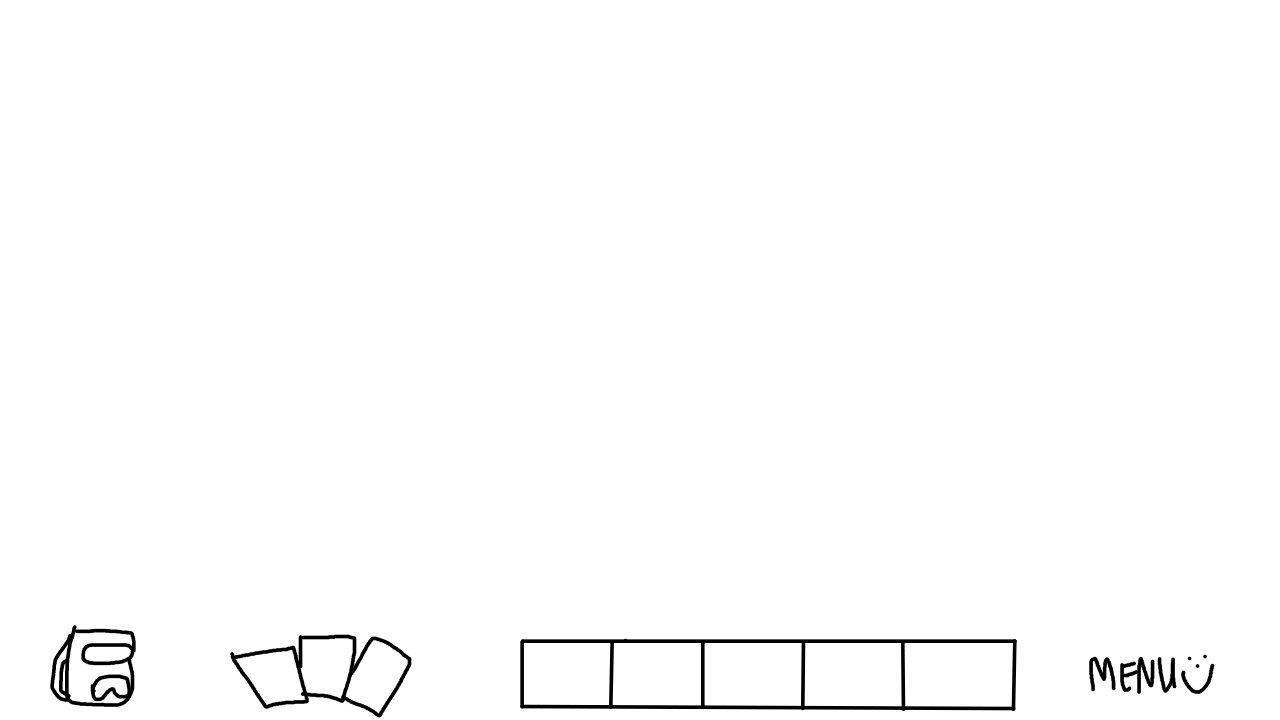
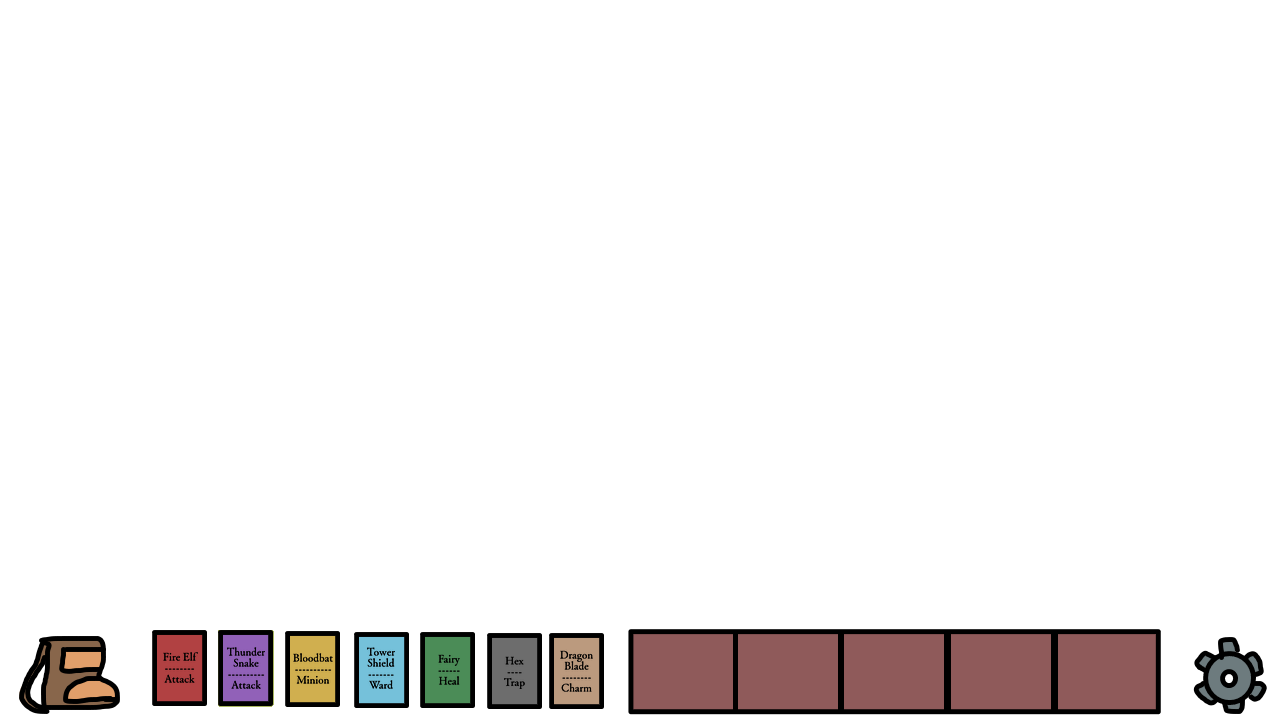
basic point and click mechanics :-)

Changed region(s): [[0.0, 0.8556, 1.0, 1.0]]

diff --git a/src/scenes/theaterStart.js b/src/scenes/theaterStart.js
@@ -3,113 +3,84 @@ class theaterStart extends Phaser.Scene {
         super("theaterStart");
     }
 
-    preload(){
+    preload() {
         // load assets
-        this.load.image('start', './assets/testBG.png')
-        this.load.plugin('rexclickoutsideplugin', 'https://raw.githubusercontent.com/rexrainbow/phaser3-rex-notes/master/dist/rexclickoutsideplugin.min.js', true);
+        this.load.image('start', './assets/testBG.png');
+        this.load.image('rope', './assets/items/rope.png');
+        this.load.image('amulet', './assets/items/amulet.png');
+        this.load.image('knife', './assets/items/knife.png');
+        this.load.image('maskSad', './assets/items/maskSad.png');
+        this.load.image('maskHappy', './assets/items/maskHappy.png');
     }
 
     create() {
-        this.cameras.main.fadeIn(1000, 0, 0, 0)
+        this.cameras.main.fadeIn(1000, 0, 0, 0);
         prevScene = this.scene.key;
     
         // title
-        this.title = this.add.tileSprite(10, 10, 1260, 600, 'start').setOrigin(0, 0);
-        //borders for now
-        this.add.rectangle(0, 0, 10, game.config.height, 0xFFFFFF).setOrigin(0, 0);
-        this.add.rectangle(0, game.config.height - 100, game.config.width, 100, 0xFFFFFF).setOrigin(0, 0);
-        this.add.rectangle(0, 0, game.config.width, 10, 0xFFFFFF).setOrigin(0, 0);
-        this.add.rectangle(game.config.width - 10, 0, 10, game.config.height, 0xFFFFFF).setOrigin(0, 0);    
+        this.title = this.add.tileSprite(10, 10, 1260, 570, 'start').setOrigin(0, 0);
 
-        //hotbar test
-        this.test = this.add.tileSprite(0, 0, 1280, 720, 'test').setOrigin(0, 0);
+        //UI
+        this.scene.run('Borders');
 
-        //text box, did not change origin so it stays in the middle
-        this.textBox = this.add.rectangle(640, game.config.height - 120, game.config.width - 20, 50, 0xFF0000);
+        //interactables
+        this.int1 = this.add.image(70, 400, 'hitbox');
+        this.int1.setInteractive({
+            cursor: handPointer
+         });
 
-        //text
-        this.interText = this.add.text(this.textBox.x, this.textBox.y, '', {fontFamily: 'Georgia, serif'});
-        this.interText.setFontSize(24);
-        this.interText.setOrigin(0.5,0.5);
+        this.int2 = this.add.image(700, 150, 'hitbox');
+        this.int2.setInteractive({
+            cursor: handPointer
+         });
 
-        //hotbar hitboxes
-        //(this.backpack, 100, 680);
-        this.backpack = this.add.image(100, 680, 'hitbox');
-        this.backpack.setDisplaySize(100, 100);
-        this.backpack.setInteractive({
+        //items
+        //note: i would rather have these be square instead of rectangular for the cursors
+        //note note: if ur able to collect up to 5 objects, in a perfect world they would enter the inv in order
+        //this means i would have some kind of array for each "slot" which are the x and y coordinates and check if an item is there already
+        //if so, move to second slot and so on
+        //for the purposes of this demo I will predetermine item placement like lighthouse
+        this.rope = this.add.image(680, 670, 'rope');
+        this.rope.setDisplaySize(100, 80);
+        this.rope.setInteractive({
            cursor: handPointer
         });
 
-        this.deck = this.add.image(300, 680, 'hitbox');
-        this.deck.setDisplaySize(100, 100);
-        this.deck.setInteractive({
-           cursor: handPointer
-        });
-
-        this.card = this.add.image(640, 680, 'hitbox');
-        this.card.setDisplaySize(100, 100);
-        this.card.setInteractive({
-           cursor: handPointer
-        });
-
-        this.menu = this.add.image(1150, 680, 'hitbox');
-        this.menu.setDisplaySize(100, 100);
-        this.menu.setInteractive({
-           cursor: handPointer
-        });
-
-        //clicking outside detection test (can I somehow just have this work for clicking outside the texture key hitbox?)
-        //maybe if i used a prefab for all interactable objects this it could work 
+        //clicking outside detection test
         //parameters: (gameObject, mode)
-        var clickOutside = this.plugins.get('rexclickoutsideplugin').add(this.card, { 
+        var clickOutside = this.plugins.get('rexclickoutsideplugin').add(this.rope, { 
             mode: 'pointerdown'
         });
 
         clickOutside.on('clickoutside', function() {
-            this.clicked = true;
-        });
-
-        //puts this scene to sleep (no updates), switches scenes to inventory
-        this.backpack.on('pointerdown', (pointer) => {
-            this.scene.switch('backpackInv');
-            console.log("hiii");
+            clickedOut = true;
         });
     }
 
-    update() {
-        //when clicking the hitboxes, display new text
-        //for items later; change cursor into item and misusing them changes cursor back
-        this.card.on('pointerup', (pointer) => {
-            this.interText.text = "The hotbar will go here for consumable items.";
-            this.textTimer = 1;
-            this.input.setDefaultCursor('url(./assets/ghostCursors/Move.cur), pointer');
-            this.clicked = false;
-        });
-        
-        this.menu.on('pointerup', (pointer) => {
-            this.interText.text = "The settings menu. In theory.";
-            this.textTimer = 1;
-        });
+    update() {  
+        this.rope.on('pointerup', (pointer) => {
+            interText.text = "A fairly long rope.";
+            //textTimer = 100;
+            this.input.setDefaultCursor('url(./assets/itemCursors/rope.png), pointer');
+            clickedOut = false;
+        }); 
 
-        this.deck.on('pointerup', (pointer) => {
-            this.interText.text = "My spell deck. As stretch I could animate them lol.";
-            this.textTimer = 1;
-        });
-
-        //text timer (maybe change time depending on length of string)
-        if(this.textTimer > 0 && this.textTimer < 200) {
-            this.textTimer += 1;
-        } 
-        else if(this.textTimer >= 200) {
-            this.interText.text = '';
-            this.textTimer = 0;
-        }
-
-        //clicking off hitbox return to default cursor
-        this.input.on('pointerdown', (pointer) => {
-            if ((this.input.mouse.manager.defaultCursor != handDefault) && (this.clicked = true)) {
+        //clicking correct object destroys object
+        this.int1.on('pointerdown', (pointer) => {
+            if ((this.input.mouse.manager.defaultCursor != handDefault)) {
                 this.input.setDefaultCursor(handDefault);
+                this.rope.destroy();
+                interText.text = "congrats you used the rope correctly yayyyy";
+                clickedOut = false;
             }
-        });   
+        });
+
+        //clicking wrong area returns to to default cursor
+        this.input.on('pointerdown', (pointer) => {
+            if ((this.input.mouse.manager.defaultCursor != handDefault) && (clickedOut = true)) {
+                this.input.setDefaultCursor(handDefault);
+                interText.text = "That doesn't work."; //note: this quickly appears when you click on a ui item too
+            }
+        });
     }
 }

diff --git a/src/UI/borders.js b/src/UI/borders.js
@@ -8,6 +8,7 @@ class Borders extends Phaser.Scene {
     }
 
     create () {
+        this.cameras.main.fadeIn(1000, 0, 0, 0)
         //borders
         //(x, y, height, width, fillcolor, alpha)
         this.add.rectangle(0, 0, 10, game.config.height, 0xFFFFFF).setOrigin(0, 0);
@@ -20,8 +21,65 @@ class Borders extends Phaser.Scene {
         //hotbar test
         this.test = this.add.tileSprite(0, 0, 1280, 720, 'test').setOrigin(0, 0);
 
-        //text box (inner monologue or observations... will dialogue appear differently? maybe not)
-        this.add.rectangle(10, game.config.height - 150, game.config.width - 20, 50, 0xFF0000).setOrigin(0, 0);
+        //text box, did not change origin so it stays in the middle
+        this.textBox = this.add.rectangle(640, game.config.height - 120, game.config.width - 20, 50, 0xFF0000);
+        
+        //text
+        interText = this.add.text(640, 600, '', {fontFamily: 'Georgia, serif'});
+        interText.setFontSize(24);
+        interText.setOrigin(0.5,0.5);
+
+        this.backpack = this.add.image(70, 670, 'hitbox');
+        this.backpack.setDisplaySize(100, 80);
+        this.backpack.setInteractive({
+           cursor: handPointer
+        });
+
+        this.deck = this.add.image(300, 670, 'hitbox');
+        this.deck.setDisplaySize(100, 80);
+        this.deck.setInteractive({
+           cursor: handPointer
+        });
+
+        this.menu = this.add.image(1220, 670, 'hitbox');
+        this.menu.setDisplaySize(100, 80);
+        this.menu.setInteractive({
+           cursor: handPointer
+        });
+
+        //puts this scene to sleep (no updates), switches scenes to inventory
+        this.backpack.on('pointerdown', (pointer) => {
+            this.scene.switch('backpackInv');
+            this.scene.sleep(prevScene);
+        });
+    }
+
+    update () {
+        //when clicking the hitboxes, display new text
+
+        this.deck.on('pointerdown', (pointer) => {
+            interText.text = "My spell deck. I couldn't choose one school, so I learned a spell from each one.";
+        });
+        
+        this.menu.on('pointerdown', (pointer) => {
+            interText.text = "The settings menu. In theory.";
+        });
+
+        //if you click on multiple tings in succession the timer will NOT reset with this method. 
+        //we can go back to resetting the texttimer value everytime u click on something... 
+        //unless i can think of something else..
+        if((interText.text != '') && (textTimer == 0 || (this.input.activePointer.leftButtonDown()))) {
+            textTimer = 1;
+        }
+
+        //text timer (maybe change time depending on length of string)
+        if(textTimer > 0 && textTimer < 200) {
+            textTimer += 1;
+        } 
+        else if(textTimer >= 200) {
+            interText.text = '';
+            textTimer = 0;
+        }
     }
 
 }

diff --git a/src/scenes/startMenu.js b/src/scenes/startMenu.js
@@ -5,8 +5,8 @@ class startMenu extends Phaser.Scene {
 
     preload(){
         // load assets
-        this.load.image('test', './assets/testHotbar.png');
         this.load.image('hitbox', './assets/Hitbox1.png');
+        this.load.plugin('rexclickoutsideplugin', 'https://raw.githubusercontent.com/rexrainbow/phaser3-rex-notes/master/dist/rexclickoutsideplugin.min.js', true);
     }
 
     create() {
@@ -23,6 +23,7 @@ class startMenu extends Phaser.Scene {
         keySPACE = this.input.keyboard.addKey(Phaser.Input.Keyboard.KeyCodes.SPACE);
         this.textTimer = 0;
     }
+    
     update (){
         if(this.textTimer == 0){
             if (Phaser.Input.Keyboard.JustDown(keySPACE)) {

diff --git a/src/main.js b/src/main.js
@@ -6,7 +6,7 @@ let config = {
       mode: Phaser.Scale.FIT,
       autoCenter: Phaser.Scale.CENTER_BOTH,
     },  
-    scene: [ startMenu, theaterStart, Inventory ],
+    scene: [ startMenu, Borders, theaterStart, Inventory ],
   }
 
 let game = new Phaser.Game(config);
@@ -29,5 +29,9 @@ let prevScene = '';
 let prevText;
 let nextText;
 
-// puzzle 1
-let level = 0;
+//text
+let interText;
+let textTimer = 0;
+
+//click detection
+let clickedOut = false;

diff --git a/src/scenes/inventory.js b/src/scenes/inventory.js
@@ -27,9 +27,7 @@ class Inventory extends Phaser.Scene {
         this.closeInven.on('pointerdown', () => {
             this.scene.stop("backpackInv");
             this.scene.wake(prevScene);
+            this.scene.wake('Borders');
         });
-    }
-    
-    update() {
     }
 } 
